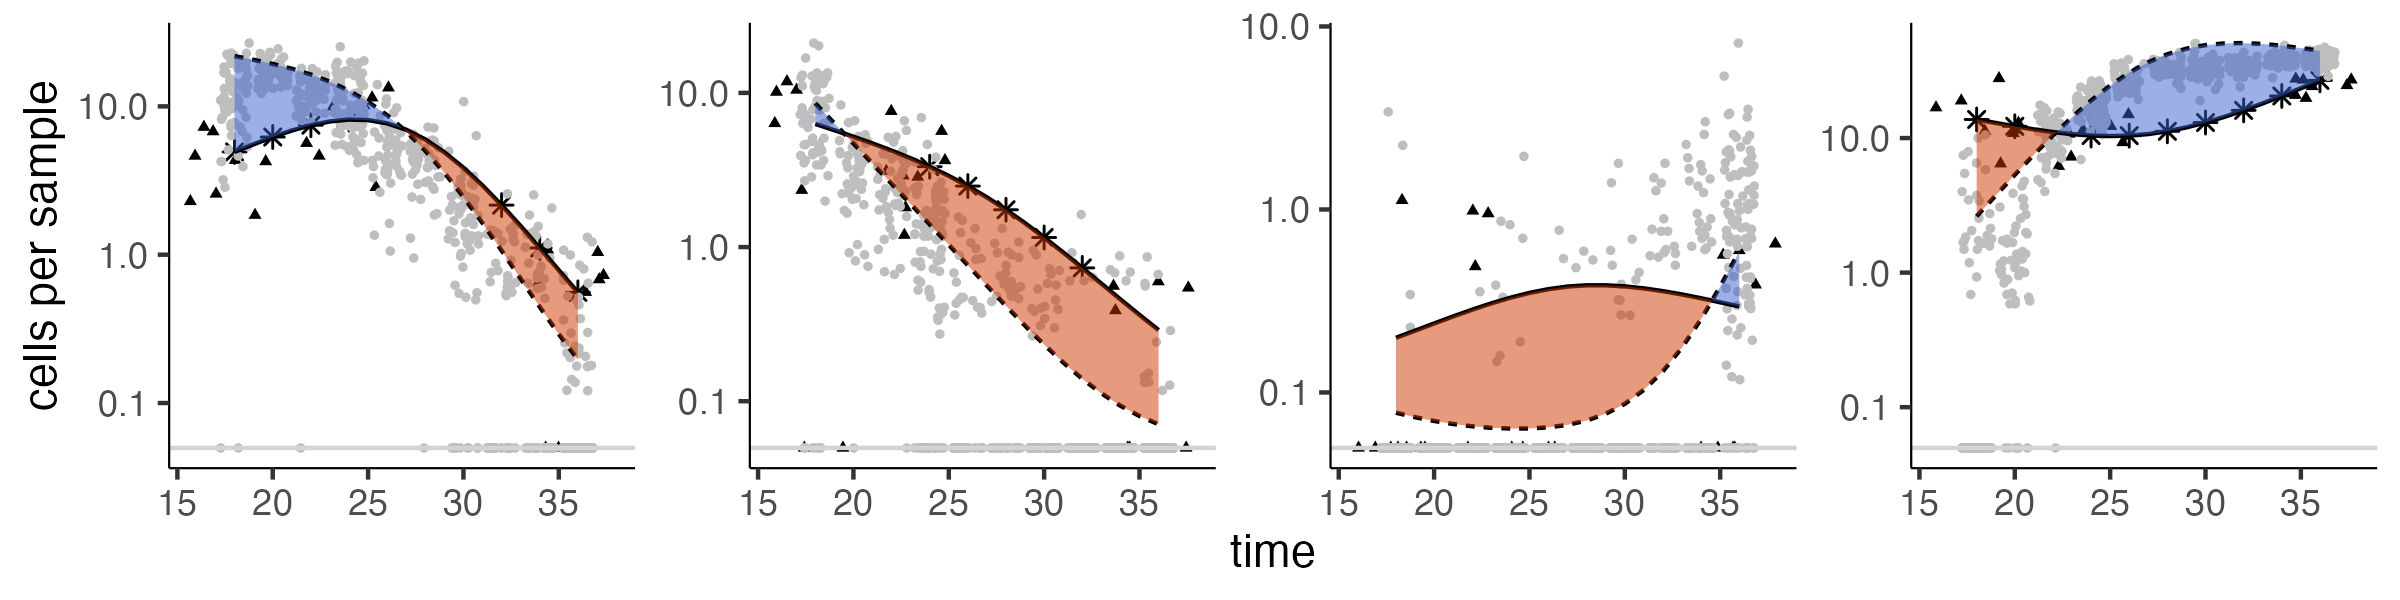
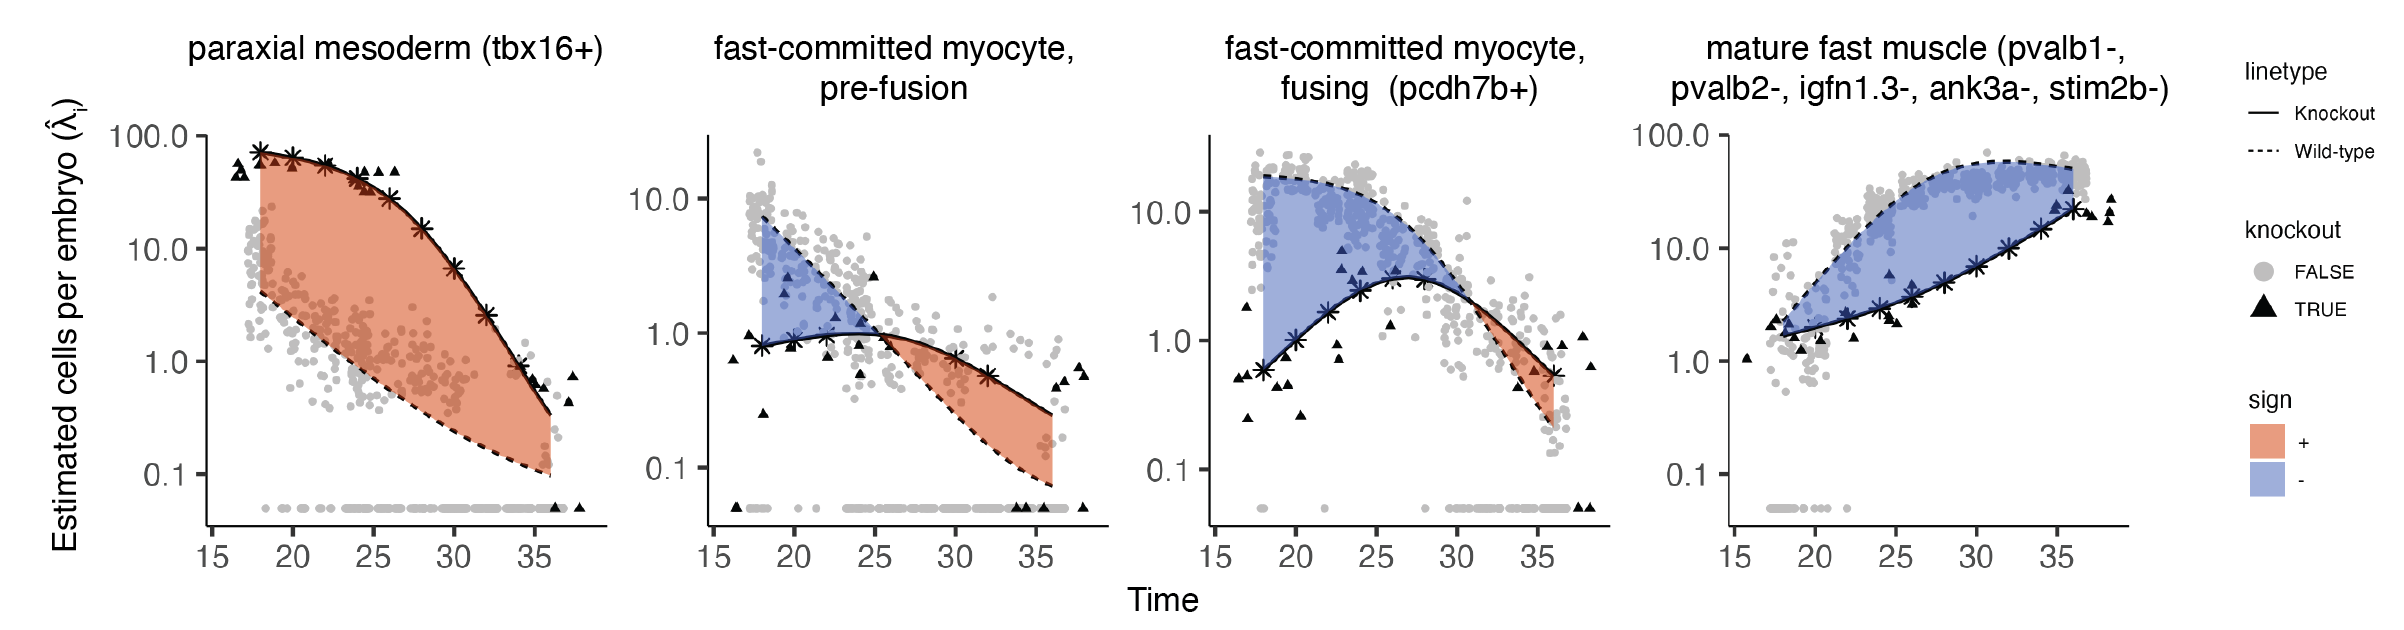
add dveg

diff --git a/docs/kinetics.md b/docs/kinetics.md
@@ -51,7 +51,7 @@ tbx16_msgn1_ccm = fit_mt_models(skeletal_muscle_comb_cds,
                                 sample_group = "embryo", 
                                 cell_group = "cell_type", 
                                 perturbation_col = "perturbation", 
-                                ctrl_ids = c(control_ids), 
+                                ctrl_ids = c("ctrl-inj"), 
                                 mt_ids = c("tbx16-msgn1"))
 
 

diff --git a/docs/dveg.md b/docs/dveg.md
@@ -1,0 +1,6 @@
+# Deviantly expressed genes (DvEGs)
+
+![](assets/DvEG.png)
+
+
+
